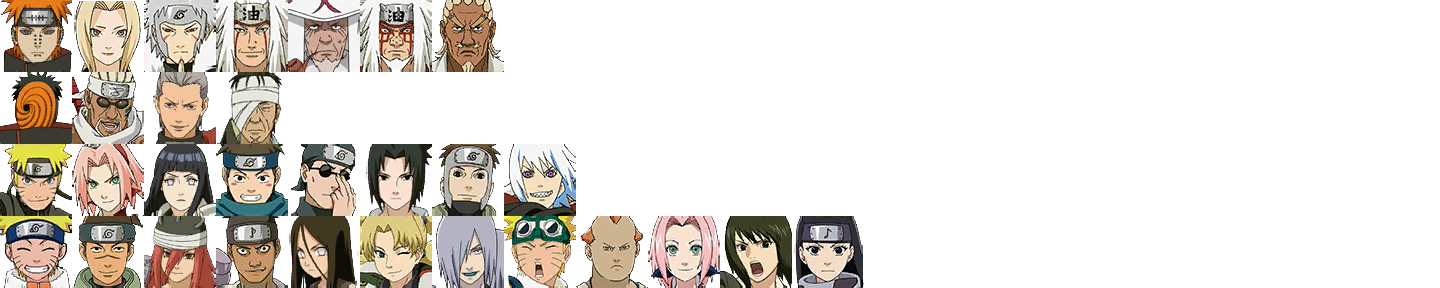
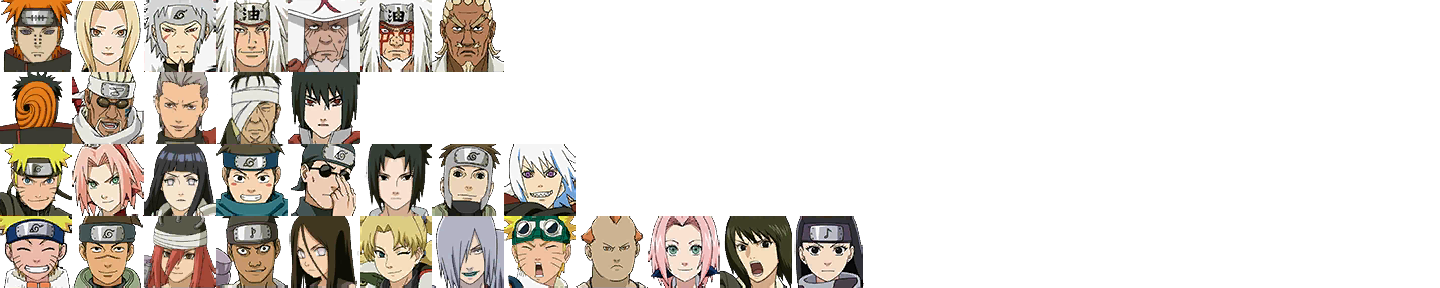
更新新A首付
即将上架新A万花筒佐助，高招模拟器数据统计新增新A碎片数量

Changed region(s): [[0.1875, 0.25, 0.25, 0.5]]

diff --git a/js/custom.js b/js/custom.js
@@ -143,7 +143,24 @@
 		}
 	})
 	
-	//首付奖励弹窗
+	//a首付奖励弹窗
+	$(".btn_baoxiang_a,.pop_baoxiang_a .btn_close").on('click',function(){
+		if($(".pop_baoxiang_a").hasClass("on")){
+			playaudio(3);
+			$(".pop_baoxiang_a").addClass("zoomOut");
+			setTimeout(function(){
+				$(".pop_baoxiang_a").removeClass("on");
+			},500)
+			$(".pop_mask").fadeOut(100);
+		}else{
+			playaudio(2);
+			$(".pop_baoxiang_a").addClass("on");
+			$(".pop_baoxiang_a").removeClass("zoomOut");
+			$(".pop_mask").fadeIn(100);
+		}
+	})
+
+	//s首付奖励弹窗
 	$(".btn_baoxiang,.pop_baoxiang .btn_close").on('click',function(){
 		if($(".pop_baoxiang").hasClass("on")){
 			playaudio(3);
@@ -184,6 +201,7 @@ var i = parseInt($("#cishu").html());
 //各种碎片数量
 var num_s = parseInt($("#num_s").html());
 var num_a = parseInt($("#num_a").html());
+var num_a_new = parseInt($("#num_a_new").html());
 var num_b = parseInt($("#num_b").html());
 var num_c = parseInt($("#num_c").html());
 //悲剧指数
@@ -258,11 +276,13 @@ function chongzhi(){
 	$("#cishujinbi").html("0");
 	$("#num_s").html("0");
 	$("#num_a").html("0");
+	$("#num_a_new").html("0");
 	$("#num_b").html("0");
 	$("#num_c").html("0");
 	i = 0;
 	num_s = 0;
 	num_a = 0;
+	num_a_new = 0;
 	num_b = 0;
 	num_c = 0;
 	sad = 0;
@@ -323,22 +343,22 @@ function showsad(){
 	}
 }
 
-//领取首付奖励
-//全局定义是否领取首付奖励，初始状态为0
+//领取S首付奖励
+//全局定义是否领取S首付奖励，初始状态为0
 var isaddsuipian = 0;
 function addsuipian(n){
-	//增加碎片数量
+	//增加s碎片数量
 	num_s = num_s + n;
 	$("#num_s").html(num_s);
-	//是否领取首付奖励状态变为1
+	//是否领取s首付奖励状态变为1
 	isaddsuipian = 1;
-	//首付弹窗消失
+	//s首付弹窗消失
 	$(".pop_baoxiang").addClass("zoomOut");
 	setTimeout(function(){
 		$(".pop_baoxiang").removeClass("on");
 	},500)
 	$(".pop_mask").fadeOut(100);
-	//首付奖励按钮消失
+	//s首付奖励按钮消失
 	$(".btn_baoxiang").hide(100);
 	//恭喜文字提示
 	gongxi("#congratulation","已领取首付奖励 <span>S级忍者碎片 × "+n+"</span>");
@@ -364,6 +384,49 @@ $("#baoxiang04").on('click',function(){
 	addsuipian(38);	
 })
 
+//领取A首付奖励
+//全局定义是否领取A首付奖励，初始状态为0
+var isaddsuipian_a = 0;
+function addsuipian_a(n){
+	//增加a碎片数量
+	num_a = num_a + n;
+	num_a_new = num_a_new + n;
+	$("#num_a").html(num_a);
+	$("#num_a_new").html(num_a_new);
+	//是否领取A首付奖励状态变为1
+	isaddsuipian_a = 1;
+	//A首付弹窗消失
+	$(".pop_baoxiang_a").addClass("zoomOut");
+	setTimeout(function(){
+		$(".pop_baoxiang_a").removeClass("on");
+	},500)
+	$(".pop_mask").fadeOut(100);
+	//a首付奖励按钮消失
+	$(".btn_baoxiang_a").hide(100);
+	//恭喜文字提示
+	gongxi("#congratulation","已领取首付奖励 <span>A级忍者碎片 × "+n+"</span>");
+}
+//V0-V4领取
+$("#baoxiang_a01").on('click',function(){
+	playaudio(3);
+	addsuipian_a(10);	
+})
+//V5-V9领取
+$("#baoxiang_a02").on('click',function(){
+	playaudio(3);
+	addsuipian_a(11);	
+})
+//V10-V14领取
+$("#baoxiang_a03").on('click',function(){
+	playaudio(3);
+	addsuipian_a(13);	
+})
+//V15领取
+$("#baoxiang_a04").on('click',function(){
+	playaudio(3);
+	addsuipian_a(15);	
+})
+
 
 //返回结果进入数据统计
 function A(){
@@ -383,12 +446,13 @@ function A(){
 				num_this = 1;
 				num_s++;
 			}
-			//只出雷影
+			//m为定值，指定s忍者，不随机
 			var m = 5;
 			//console.log("n="+n+"(小于5为5片)");
 			writelog("S碎片 × "+num_this,"s",num_this,m);
 			$("#num_s").html(num_s);
-			gongxi("#congratulation","恭喜你获得 <span>S级忍者碎片 × "+num_this+"</span>");
+			$("#num_s_new").html(num_s);
+			gongxi("#congratulation","恭喜你获得 <span>四代目雷影碎片 × "+num_this+"</span>");
 			sad = 0;
 			//return;
 		}else if(3.5 < raNum && raNum <= 15){
@@ -405,6 +469,13 @@ function A(){
 			var m = parseInt(Math.random()*10);
 			writelog("A碎片 × "+num_this,"a",num_this,m);
 			$("#num_a").html(num_a);
+			//这里判断是否为新A，m值需要与css设定相对应，目前两a概率各50%
+			if(m == 5 || m==6 || m==7 ||m==8||m==9){
+				//是新a，恭喜公告出现，并且额外计入新a计数器
+				gongxi("#congratulation","恭喜你获得 <span>宇智波佐助[万花筒写轮眼]碎片 × "+num_this+"</span>");
+				num_a_new = num_a_new + num_this;
+				$("#num_a_new").html(num_a_new);
+			}
 			//return;
 		}else if(15 < raNum && raNum <= 55){
 			//出现2片和1片的概率
@@ -445,11 +516,17 @@ function A(){
 		sad++;
 		showsad();
 		
-		//如果抽够100次会有首付奖励出现
-		if(i>=100 && isaddsuipian == 0 ){
+		//如果抽够50次会有A首付奖励出现
+		if(i>=50 && isaddsuipian_a == 0 ){
+			$(".btn_baoxiang_a").show(100);
+		}else{
+			$(".btn_baoxiang_a").hide(100);
+		}
+		//如果抽够100次会有S首付奖励出现
+		/*if(i>=100 && isaddsuipian == 0 ){
 			$(".btn_baoxiang").show(100);
 		}else{
 			$(".btn_baoxiang").hide(100);
-		}
+		}*/
 		
 }

diff --git a/css/style.css b/css/style.css
@@ -228,6 +228,12 @@ body{ height: 100%; width: 100%; background:#000 url(../images/bg.png) no-repeat
 .icon.icon_jinbi{ background-image:url(../images/coin.png); }
 .icon.icon_s{ background-image:url(../images/s.png); }
 .icon.icon_a{ background-image:url(../images/a.png); }
+.icon.icon_s_new,
+.icon.icon_a_new{ width:.72rem; height:.72rem; padding:.03rem; background:url(../images/piece_bg.png) no-repeat center; background-size:100% 100%; position:relative;}
+.icon.icon_s_new .img,
+.icon.icon_a_new .img{ position:absolute; left:50%; top:50%; margin-left:-.36rem; margin-top:-.36rem; background-repeat:no-repeat; background-position:center; background-size:100% 100%; display:block; width:.72rem; height:.72rem;}
+.icon.icon_s_new .fg,
+.icon.icon_a_new .fg{display: block; width: 100%; height: 100%; background-repeat: no-repeat; background-position: center; background-size: 100% 100%; background-image: url(../images/piece_fg.png); position: absolute; left: 0; top: 0;}
 .icon.icon_b{ background-image:url(../images/b.png); }
 .icon.icon_c{ background-image:url(../images/c.png); }
 .icon.icon_back{ background-image:url(../images/back.png); }
@@ -323,18 +329,24 @@ filter: brightness(1.2); }
 .resultlist .item .fg:after{content:''; display: block; position: absolute; left: .02rem; bottom: .02rem; }
 .resultlist .item .fg .num{ display: block; position: absolute; right: .02rem; bottom: .02rem; font-size: .18rem; text-shadow: 0 .02rem #000, .02rem 0 #000, -.02rem 0 #000, 0 -.02rem #000; font-weight: bold; }
 .resultlist .text{ font-size: .16rem;line-height: .30rem;text-shadow: 0 .02rem #000, .02rem 0 #000, -.02rem 0 #000, 0 -.02rem #000; text-align: center; }
-.resultlist .item .img{ background-image:url(../images/charactors.png); background-size: 14.40rem 2.88rem; }
+.resultlist .item .img,
+.icon.icon_s_new .img,
+.icon.icon_a_new .img{ background-image:url(../images/charactors.png); background-size: 14.40rem 2.88rem; }
 .resultlist .item_s .img{  background-position: 0 0; }/*1,1*/
 .resultlist .item_s .img0{ background-position: -.72rem 0; }/*1,2*/
 .resultlist .item_s .img1{  background-position: -1.44rem 0; }/*1,3*/
 .resultlist .item_s .img2{ background-position: -2.16rem 0;  }/*1,4*/
 .resultlist .item_s .img3{ background-position: -2.88rem 0;  }/*1,5*/
 .resultlist .item_s .img4{ background-position: -3.6rem 0;  }/*1,6*/
-.resultlist .item_s .img5{ background-position: -4.32rem 0;  }/*1,7  当前s忍者*/
+.resultlist .item_s .img5,
+.icon.icon_s_new .img{ background-position: -4.32rem 0;  }/*1,7  当前s忍者*/
 .resultlist .item_a .img{  background-position: -1.44rem -.72rem; }/*2,3 当前a忍者（容易）*/
+.resultlist .item_a .img5,
+.resultlist .item_a .img6,
+.resultlist .item_a .img7,
 .resultlist .item_a .img8,
-.resultlist .item_a .img7
-{  background-position: -2.16rem -.72rem; }/*2,4 当前a忍者（稀有）*/
+.resultlist .item_a .img9,
+.icon.icon_a_new .img{  background-position: -2.88rem -.72rem; }/*2,5 当前a忍者（稀有）*/
 .resultlist .item_b .img{  background-position: 0 -1.44rem; }/*3,1 b忍者（容易）*/
 .resultlist .item_b .img0{  background-position: -.72rem -1.44rem; }/*3,2 b忍者2*/
 .resultlist .item_b .img1{  background-position: -1.44rem -1.44rem; }/*3,3 b忍者3*/
@@ -410,12 +422,16 @@ filter: brightness(1.2); }
 /*忍者分享图生成工具*/
 .btn_ninja{position: fixed; right:.7rem; top:.1rem;cursor: pointer; display: block; width:.6rem;height: .6rem; line-height: .6rem; text-align: center; color: #fff; font-size: .16rem; }
 /*弹窗 宝箱*/
-.btn_baoxiang{position: fixed; right:.1rem; top:1.4rem;cursor: pointer; display: block; width:.6rem;height: .6rem; line-height: .6rem; text-align: center; color: #fff; font-size: .16rem; display:none; }
+.btn_baoxiang{position: fixed; right:.1rem; top:2.1rem;cursor: pointer; display: block; width:.6rem;height: .6rem; line-height: .6rem; text-align: center; color: #fff; font-size: .16rem; display:none; }
 .btn_baoxiang .icon{ position: absolute; left: 50%; top: 50%; width:.5rem; height: .5rem; margin-left: -.25rem; margin-top:-.25rem; }
 .btn_baoxiang .txt{ white-space:nowrap; display:block; width:1rem; position:absolute; left:50%; margin-left:-.5rem; top:.5rem;line-height:.3rem;}
 .baoxianglist .item{ display:inline-block; width:20%; margin:.3rem 2%; text-align:center; }
 .baoxianglist .item .pic{ width:100%;}
 .baoxianglist .item .pic img{ max-width:100%; height:auto;}
+.btn_baoxiang_a{position: fixed; right:.1rem; top:1.4rem;cursor: pointer; display: block; width:.6rem;height: .6rem; line-height: .6rem; text-align: center; color: #fff; font-size: .16rem; display:none; }
+.btn_baoxiang_a .icon{ position: absolute; left: 50%; top: 50%; width:.5rem; height: .5rem; margin-left: -.25rem; margin-top:-.25rem; }
+.btn_baoxiang_a .txt{ white-space:nowrap; display:block; width:1rem; position:absolute; left:50%; margin-left:-.5rem; top:.5rem;line-height:.3rem;}
+
 
 
 

diff --git a/index.html b/index.html
@@ -32,7 +32,7 @@
 		<script type="text/javascript">
 			window.onload=function(){
 				setTimeout(function(){
-					$("#LoadingBar p").html("今天的脸是否白点了呢");
+					$("#LoadingBar p").html("准备就绪");
 				},3000)
 				setTimeout(function(){
 					$("#LoadingBar").fadeOut(300);
@@ -88,7 +88,7 @@
 <!-- 统计数据 -->
 		<div class="tongjilist_wrap on ease3">
 			<div class="tongjilist">
-				<div class="mb50">
+				<div class="mb20">
 					<dl class="mb10">
 						<dt><i class="icon icon_gaozhaoquan"></i></dt>
 						<dd><p>招募次数</p><p id="cishu">0</p></dd>
@@ -98,7 +98,9 @@
 						<dd><p>消耗金币</p><p id="cishujinbi">0</p></dd>
 					</dl>
 				</div>
-				<p class="mb10">累计获得</p>
+				<!--<p class="mb10">累计获得</p>-->
+                <!--<p class="mb20"><em class="icon icon_s_new"><em class="img"></em><em class="fg"></em></em> × <span id="num_s_new">0</span></p>-->
+                <p class="mb20"><em class="icon icon_a_new"><em class="img"></em><em class="fg"></em></em> × <span id="num_a_new">0</span></p>
 				<p class="mb10"><i class="icon icon_s"></i>碎片：<span id="num_s">0</span></p>
 				<p class="mb10"><i class="icon icon_a"></i>碎片：<span id="num_a">0</span></p>
 				<p class="mb10"><i class="icon icon_b"></i>碎片：<span id="num_b">0</span></p>
@@ -165,8 +167,8 @@
 		</div>
 <!-- 忍者分享图生成工具 -->
 		<a href="ninjashare.html" class="btn btn_ninja ease1"><i class="icon icon_ninja"></i></a>
-<!-- 首付奖励 -->
-		<div class="btn btn_baoxiang ease1 animated tada infinite"><i class="icon icon_baoxiang"></i><span class="txt">首付奖励</span></div>
+<!-- 首付S奖励 -->
+		<div class="btn btn_baoxiang ease1 animated tada infinite"><i class="icon icon_baoxiang"></i><span class="txt">S首付奖励</span></div>
         <div class="pop pop_big pop_baoxiang animated zoomIn">
 			<div class="text_wrap">
             	<div class="text_body">
@@ -178,6 +180,25 @@
                         <div class="item btn ease1" id="baoxiang02"><div class="pic"><img src="images/baoxiang_big.png" class="宝箱V5-V9领取"></div><div class="txt">v5-v9领取<br><font style="color:#ee1a1a;">(S级碎片×28)</font></div></div>
                         <div class="item btn ease1" id="baoxiang03"><div class="pic"><img src="images/baoxiang_big.png" class="宝箱V10-V14领取"></div><div class="txt">v10-v14领取<br><font style="color:#ee1a1a;">(S级碎片×33)</font></div></div>
                         <div class="item btn ease1" id="baoxiang04"><div class="pic"><img src="images/baoxiang_big.png" class="宝箱V15领取"></div><div class="txt">v15领取<br><font style="color:#ee1a1a;">(S级碎片×38)</font></div></div>
+                    </div>
+                </div>
+                </div>
+            </div>
+			<div class="btn btn_close ease1"><i class="icon icon_close"></i></div>
+        </div>
+<!-- 首付A奖励 -->
+		<div class="btn btn_baoxiang_a ease1 animated tada infinite"><i class="icon icon_baoxiang"></i><span class="txt">A首付奖励</span></div>
+        <div class="pop pop_big pop_baoxiang_a animated zoomIn">
+			<div class="text_wrap">
+            	<div class="text_body">
+					<p>请根据自己的V等级领取相应的奖励</p>
+					<p><br></p>
+                <div class="baoxianglist_wrap">
+                    <div class="baoxianglist">
+                        <div class="item btn ease1" id="baoxiang_a01"><div class="pic"><img src="images/baoxiang_big.png" class="宝箱V0-V4领取"></div><div class="txt">v0-v4领取<br><font style="color:#ee1a1a;">(A级碎片×10)</font></div></div>
+                        <div class="item btn ease1" id="baoxiang_a02"><div class="pic"><img src="images/baoxiang_big.png" class="宝箱V5-V9领取"></div><div class="txt">v5-v9领取<br><font style="color:#ee1a1a;">(A级碎片×11)</font></div></div>
+                        <div class="item btn ease1" id="baoxiang_a03"><div class="pic"><img src="images/baoxiang_big.png" class="宝箱V10-V14领取"></div><div class="txt">v10-v14领取<br><font style="color:#ee1a1a;">(A级碎片×13)</font></div></div>
+                        <div class="item btn ease1" id="baoxiang_a04"><div class="pic"><img src="images/baoxiang_big.png" class="宝箱V15领取"></div><div class="txt">v15领取<br><font style="color:#ee1a1a;">(A级碎片×15)</font></div></div>
                     </div>
                 </div>
                 </div>

diff --git a/ninjashare.html b/ninjashare.html
@@ -246,23 +246,6 @@ function PreviewImage(fileObj,imgPreviewId,imgPreviewId2,divPreviewId){
             <p style="margin-bottom:20px;">本工具需要自行填写个人相关信息，当然，你也可以选择不填写(*￣∇￣*) </p>
             <div class="container_form">
                 <div class="form_item">
-                	<label class="dt">玩家头像</label>
-                    <div class="dd"><div class="btn_upload"><img id="user_avatar2" src=""><a href="###" class="ease1"><input type="file" name="avatar" class="input_file" placeholder="上传玩家头像" onchange="PreviewImage(this,'user_avatar','user_avatar2','divPreview')" /></a></div></div>
-                </div>
-                <div class="form_item">
-                	<label class="dt">玩家昵称</label>
-                	<div class="dd"><input maxlength="6" type="text" name="nickname" id="input_nickname" class="input_text" placeholder="最多6个字符" onBlur="exeTextKeyUp($(this));tongbu($('#nickname'),this)" data-default="某熊" /></div>
-                </div>
-                <div class="form_item">
-                	<label class="dt">玩家等级</label>
-                	<div class="dd"><input maxscore="130" type="number" name="level" id="input_level" class="input_text" placeholder="最高130级" oninput="MaxScore($(this));" onBlur="tongbu($('#level'),this)" data-default="128" /></div>
-                </div>
-                <div class="form_item">
-                	<label class="dt">忍者数量</label>
-                    <div class="dd"><input maxscore="141" type="number" name="ninja_number" id="input_ninja_number" class="input_text" placeholder="最多141个" oninput="MaxScore($(this));" onBlur="tongbuimg($('#txt_wode_num'),this)" data-default="110" /></div>
-                </div>
-                
-                <div class="form_item">
                 	<label class="dt">选择忍者</label>
                     <div class="dd"><select name="ninja_select" id="select_ninja_select" class="select_text">
                         <option value="01" data-rank="a">宇智波佐助[万花筒写轮眼]</option>
@@ -281,6 +264,23 @@ function PreviewImage(fileObj,imgPreviewId,imgPreviewId2,divPreviewId){
                         <option value="04" data-rank="ss">福禄丸</option>
                     </select></div>
                 </div>
+                <div class="form_item">
+                	<label class="dt">玩家头像</label>
+                    <div class="dd"><div class="btn_upload"><img id="user_avatar2" src=""><a href="###" class="ease1"><input type="file" name="avatar" class="input_file" placeholder="上传玩家头像" onchange="PreviewImage(this,'user_avatar','user_avatar2','divPreview')" /></a></div></div>
+                </div>
+                <div class="form_item">
+                	<label class="dt">玩家昵称</label>
+                	<div class="dd"><input maxlength="6" type="text" name="nickname" id="input_nickname" class="input_text" placeholder="最多6个字符" onBlur="exeTextKeyUp($(this));tongbu($('#nickname'),this)" data-default="某熊" /></div>
+                </div>
+                <div class="form_item">
+                	<label class="dt">玩家等级</label>
+                	<div class="dd"><input maxscore="130" type="number" name="level" id="input_level" class="input_text" placeholder="最高130级" oninput="MaxScore($(this));" onBlur="tongbu($('#level'),this)" data-default="128" /></div>
+                </div>
+                <div class="form_item">
+                	<label class="dt">忍者数量</label>
+                    <div class="dd"><input maxscore="141" type="number" name="ninja_number" id="input_ninja_number" class="input_text" placeholder="最多141个" oninput="MaxScore($(this));" onBlur="tongbuimg($('#txt_wode_num'),this)" data-default="110" /></div>
+                </div>
+                
                 <div class="btns">
                     <!--<a class="btn ease1" href="javascript:void(0);" id="suijixuan" onClick="suijixuan()">随机选</a>-->
                     <a class="btn ease1" href="javascript:void(0);" id="btn_import" title="生成">生成</a>

diff --git a/js/preload.js b/js/preload.js
@@ -1,10 +1,15 @@
 //在页面未加载完毕之前显示的loading Html自定义内容
+var msg = ["正在加载图像...","正在读取字体...","正在玩命加载...","今天是欧皇还是非酋"];
+//alert(msg[Math.floor(Math.random() * msg.length)]);
 var _LoadingHtml = '<div id="LoadingBar"><div class="div txt-c animated fadeIn"><div class="load-container load8"><div class="loader">Loading</div></div><p>啊……一天不抽手就痒了</p><span id="cantwaiting"></span></div></div>';
 //呈现loading效果
 document.write(_LoadingHtml);
+setInterval(function(){
+	$("#LoadingBar p").html(msg[Math.floor(Math.random() * msg.length)]);
+},1500)
 setTimeout(function(){
 	$("#LoadingBar p").html("服务器打瞌睡了……");
-},10000)
+},20000)
 
 //解决移动端300ms延迟点击
 FastClick.attach(document.body);
